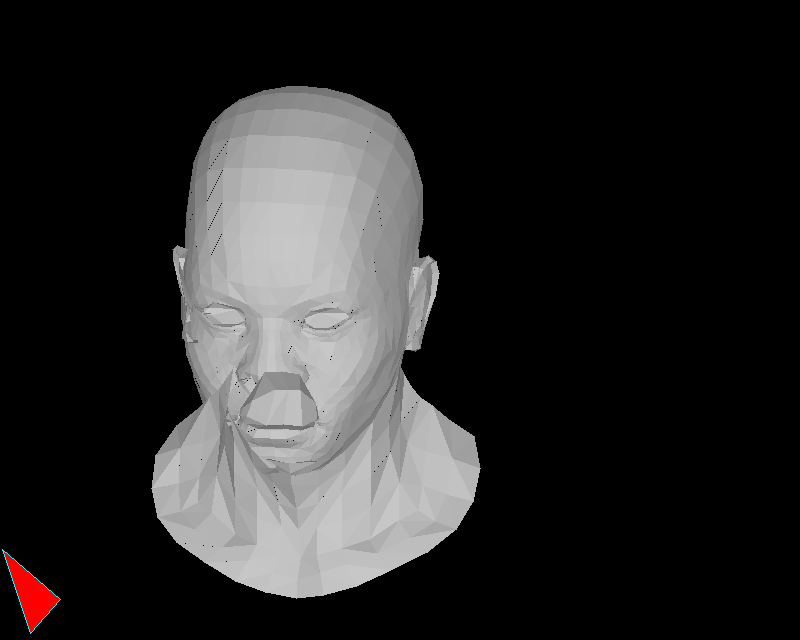
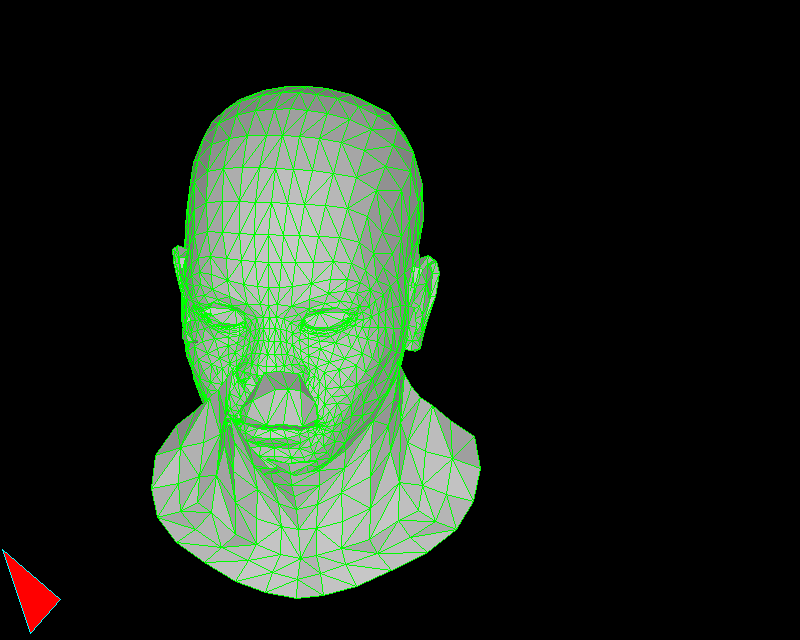
Forgot to make clean.

Changed region(s): [[0.1875, 0.125, 0.5625, 0.9375], [0.5625, 0.7188, 0.5938, 0.75]]

diff --git a/src/main.cpp b/src/main.cpp
@@ -63,7 +63,7 @@ try
             auto const shading = RGBA{ s, s, s, 255};
 
             draw_filled_triangle(q, image, shading);
-            // draw_wire_triangle(q, image, green);
+            draw_wire_triangle(q, image, green);
         });
 
     image.write_png("image.png");
